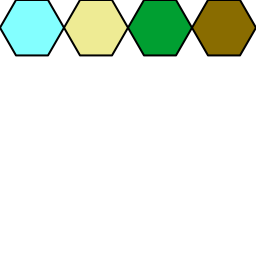
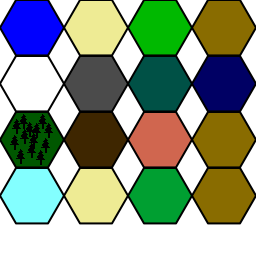
desert tile

diff --git a/constants/index.js b/constants/index.js
@@ -39,7 +39,8 @@ export const tile = {
     jungle: new Point2D(2,1),
     oceanDeep: new Point2D(0,1),
     forestDeep: new Point2D(0,2),
-    scorched: new Point2D(1,2)
+    scorched: new Point2D(1,2),
+    desert: new Point2D(2,2)
 }
 
 export const mapArray = [];
